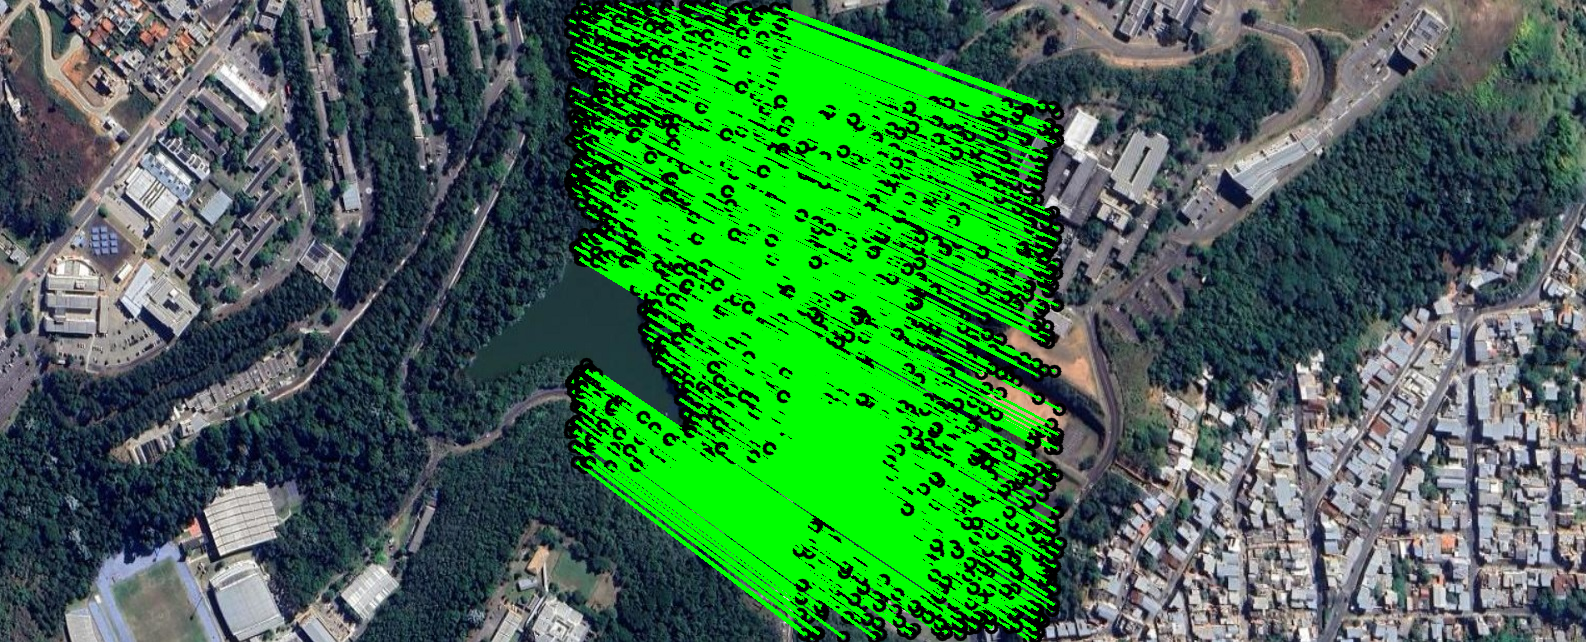
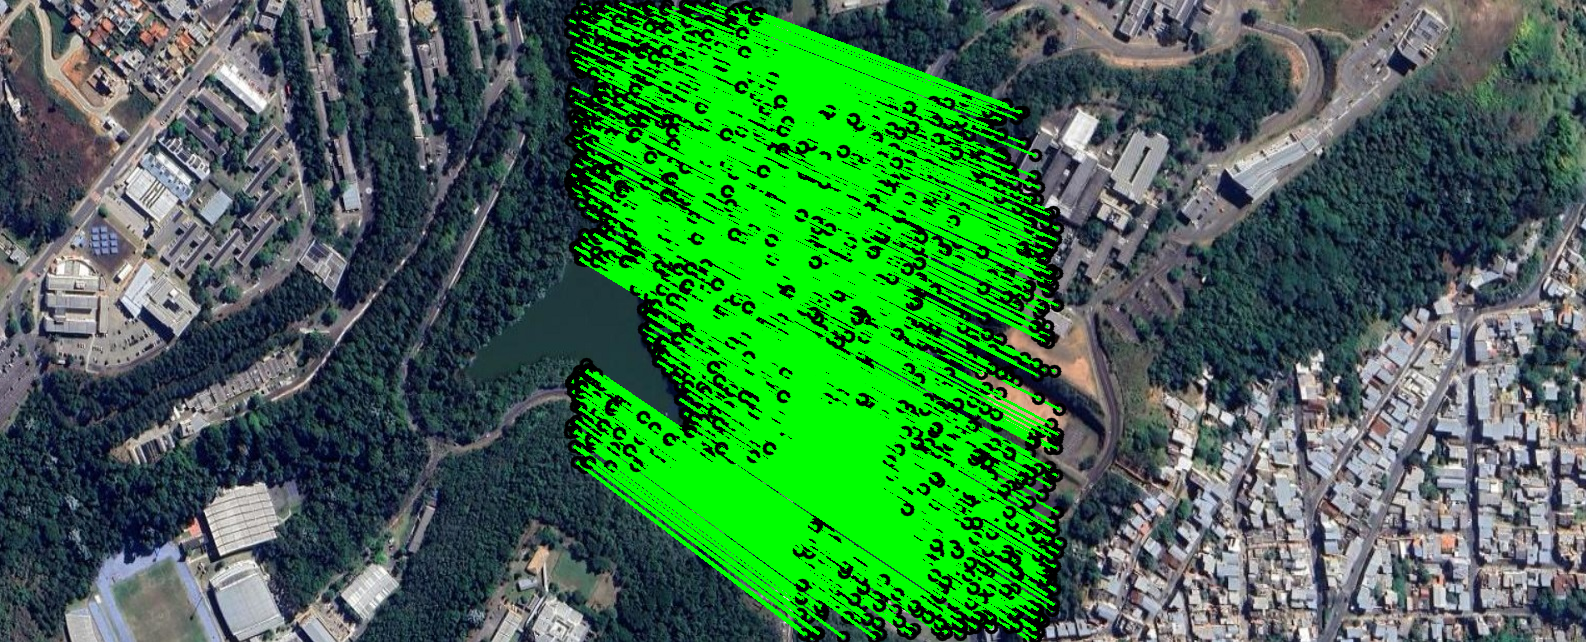
teste commit

Changed region(s): [[0.4634, 0.0, 0.6797, 0.2804]]

diff --git a/ransac.py b/ransac.py
@@ -1,10 +1,10 @@
 import numpy as np
 
 # Function to calculate homography
-def HomographyGenerator(pairs):
+def HomographyGenerator(pairs, T1, T2):
     
     A = []
-    
+
     # Construct a matrix according to the homography equations
     for x1, y1, x2, y2 in pairs:
         A.append([x1, y1, 1, 0, 0, 0, -x2 * x1, -x2 * y1, -x2])
@@ -18,9 +18,41 @@ def HomographyGenerator(pairs):
     # of (A^T)A with the smalles eigenvalue. Reshape into 3x3 matrix.
     H = np.reshape(V[-1], (3, 3))
 
-    # Normalizes the points
-    H = (1 / H.item(8)) * H
+    H = desnormalizePoints(H, T1, T2)
 
+    # Normalizes the points
+    #H = (1 / H.item(8)) * H
+
+    return H
+
+# Performs normalization of points
+def normalizePoints(pointsMap):
+
+    # Get the size of the set of matches
+    pointsMapSize = len(pointsMap)
+
+    # Calculates the average of the set
+    mean = np.mean(pointsMap, 0)
+
+    # 
+    s = np.linalg.norm((pointsMap-mean), axis=1).sum() / (pointsMapSize * np.sqrt(2))
+
+    # Compute a similarity transformation T, moves original points to
+    # new set of points, such that the new centroid is the origin,
+    # and the average distance from origin is square root of 2
+    T = np.array([[s, 0, mean[0]],
+                  [0, s, mean[1]],
+                  [0, 0, 1]])
+    T = np.linalg.inv(T)
+    pointsMap = np.dot(T, np.concatenate((pointsMap.T, np.ones((1, pointsMap.shape[0])))))
+    pointsMap = pointsMap[0:2].T
+
+    return pointsMap, T
+
+def desnormalizePoints(HNormalized, T1, T2):
+    # Denormalization: denormalize the homography back
+    H = np.dot(np.dot(np.linalg.pinv(T2), HNormalized), T1)
+    H = H/H[-1, -1]
     return H
 
 # Function used to update the value of N in the RANSAC loop
@@ -45,7 +77,7 @@ def dist(pair, H):
     return np.linalg.norm(np.transpose(p2) - p2_estimate)
 
 # Main function that executes RANSAC
-def run_RANSAC(pointsMap):
+def run_RANSAC(pointsMapImg1, pointsMapImg2):
 
     # Defines the parameters of the RANSAC algorithm
     N = 1000 # Number of samplings N
@@ -58,25 +90,33 @@ def run_RANSAC(pointsMap):
     epsilonUpdate = 0.0
 
     print(f'Running RANSAC...')
+
+    TotalPointsMap = np.concatenate([pointsMapImg1,pointsMapImg2], axis=1)
+
+    # Normalizes the points of each image
+    img1Normalized, T1 = normalizePoints(pointsMapImg1)
+    img2Normalized, T2 = normalizePoints(pointsMapImg2)
+
+    TotalPointsMapNorm = np.concatenate([img1Normalized,img2Normalized], axis=1)
     
     # Adaptative RANSAC
-    while (N > counterSamplings):
+    while (counterSamplings < 150):
 
         # Randomly choose 4 matches to estimate the solution
-        pairs = [pointsMap[i] for i in np.random.choice(len(pointsMap), 4)]
+        pairs = [TotalPointsMapNorm[i] for i in np.random.choice(len(TotalPointsMapNorm), 4)]
 
         # Invokes the function to calculate the homography
-        H = HomographyGenerator(pairs)
+        H = HomographyGenerator(pairs, T1, T2)
 
         # Selects inliers according to a distance 'inlierThreshold'
         inliers = {(c[0], c[1], c[2], c[3])
-                   for c in pointsMap if dist(c, H) <= inlierThreshold}
+                   for c in TotalPointsMap if dist(c, H) <= inlierThreshold}
 
         # Minimum number of inliers to be accepted as valid set
-        minInliers = (1-epsilon)*len(pointsMap)
+        minInliers = (1-epsilon)*len(TotalPointsMap)
 
         # Epslon update
-        epsilonUpdate = 1 - (len(inliers)/len(pointsMap))
+        epsilonUpdate = 1 - (len(inliers)/len(TotalPointsMap))
 
         # Checks whether the value of N and epslon should be updated
         if (epsilonUpdate < epsilon):
@@ -91,14 +131,15 @@ def run_RANSAC(pointsMap):
         
         # Update the number of samples
         counterSamplings += 1
-
+        
         # Print results
         print(f'\x1b[2K\r└──> iteration {counterSamplings}/{N}', end='')
         
-        print(f'\nNummber of matches: {len(pointsMap)}')
+        print(f'\nNummber of matches: {len(TotalPointsMap)}')
         print(f'Number of inliers: {len(bestInliers)}')
         print(f'Minimum inliers: {minInliers}')
         
+    
     return homography, bestInliers
 
 

diff --git a/main.py b/main.py
@@ -1,5 +1,6 @@
 # Importing required libraries and files
 import cv2
+import numpy as np
 import matching_images
 import ransac
 import util
@@ -9,23 +10,37 @@ import generate_panorama
 def main():
     
     # Defines the image pair that will be used to create the panoramic image
-    pair_imgs = 'D' # A, B, C, D
+    pair_imgs = 'B' # A, B, C, D
 
     # Reads the image pair from the 'input_images' folder
     imgInput1 = cv2.imread('input_images\\pair_images_{}\\input1.jpg'.format(pair_imgs))
     imgInput2 = cv2.imread('input_images\\pair_images_{}\\input2.jpg'.format(pair_imgs))
 
-    # Invokes the function to match the images and return the point map.
-    pointsMap = matching_images.run_matching_images(imgInput1, imgInput2, pair_imgs)
+    # Invokes the function to match the images and return the point map of each image
+    pointsMapImg1, pointsMapImg2 = matching_images.run_matching_images(imgInput1, imgInput2, pair_imgs)
     
     # Invokes the do function to compute the homography from RANSAC
-    homography, inliers = ransac.run_RANSAC(pointsMap)
+    homography, inliers = ransac.run_RANSAC(pointsMapImg1, pointsMapImg2)
 
     # Draw the inliers on the two images after using RANSAC
     util.draw_inlines(inliers, imgInput1, imgInput2, pair_imgs)
+    
+    # Transforms set of inliers into numpy array
+    inliers = np.array(list(inliers))
+
+    # Take the points of the inliers of each image separately
+    inliersImg1 = inliers[:,:2]
+    inliersImg2 = inliers[:,[-2,-1]]
+
+    # Take the points of the inliers of each image separately
+    normInliersImg1, T1 = ransac.normalizePoints(inliersImg1)
+    normInliersImg2, T2 = ransac.normalizePoints(inliersImg2)
+
+    # Concatenates normalized point arrays
+    TotalInliersNorm = np.concatenate([normInliersImg1, normInliersImg2], axis=1)
 
     # Estimates H using the inliers of the best candidate solution
-    homography = ransac.HomographyGenerator(inliers)
+    homography = ransac.HomographyGenerator(TotalInliersNorm, T1, T2)
     
     # Invokes the function to generate the panoramic image
     panoramicImage = generate_panorama.fit_transform_homography(homography, imgInput1, imgInput2)

diff --git a/matching_images.py b/matching_images.py
@@ -34,7 +34,7 @@ def run_matching_images(img1, img2, pair_imgs):
     img2_gray = cv2.cvtColor(img2, cv2.COLOR_BGR2GRAY)
 
     # Invokes the function to detect and compute the interest points and descriptors in each image (ORB or SIFT)
-    img1_keypoints, img1_descriptors, img2_keypoints, img2_descriptors = ORB_descriptor(img1_gray, img2_gray)
+    img1_keypoints, img1_descriptors, img2_keypoints, img2_descriptors = SIFT_descriptor(img1_gray, img2_gray)
 
     # Save images with points of interest
     cv2.imwrite('results\\pair_images_{}\\keypoints_img1.png'.format(pair_imgs),
@@ -47,15 +47,18 @@ def run_matching_images(img1, img2, pair_imgs):
     matches = matcher.match(img1_descriptors,img2_descriptors)
 
     # Creates array with the mapping of the correspondence points found between the two images
-    pointsMap = np.array([
+    pointsMapImg1  = np.array([
             [img1_keypoints[match.queryIdx].pt[0],
-            img1_keypoints[match.queryIdx].pt[1],
-            img2_keypoints[match.trainIdx].pt[0],
+            img1_keypoints[match.queryIdx].pt[1]] for match in matches
+        ])
+    
+    pointsMapImg2  = np.array([
+            [img2_keypoints[match.trainIdx].pt[0],
             img2_keypoints[match.trainIdx].pt[1]] for match in matches
         ])
-
+    
     # Saves images with all matching points
     matched_image = cv2.drawMatches(img1, img1_keypoints, img2, img2_keypoints, matches, None, flags=2)
     cv2.imwrite('results\\pair_images_{}\\matches_BFMatcher.png'.format(pair_imgs), matched_image)
 
-    return pointsMap
+    return pointsMapImg1, pointsMapImg2

diff --git a/generate_panorama.py b/generate_panorama.py
@@ -31,7 +31,7 @@ def fit_transform_homography(homography, img1, img2):
                     warpedImg[y][x] = img1[y][x]
                     continue
 
-                threshold = 50
+                threshold = 100
                 if r_left - r > threshold or g_left - g > threshold or b_left - b > threshold:
                     warpedImg[y][x] = [r, g, b]
                 else:
